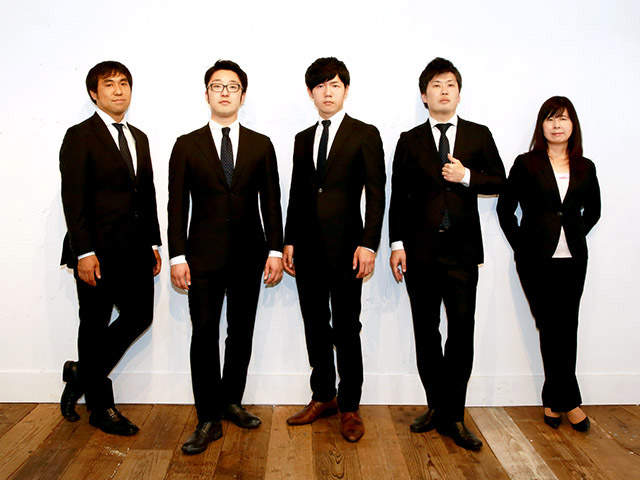
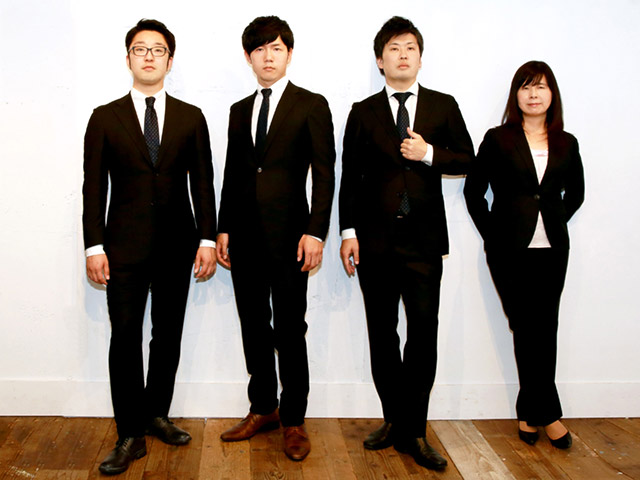
アーティストページGifts写真変更 チケットページイープラスの文言修正

diff --git a/ticket/index.html b/ticket/index.html
@@ -53,12 +53,12 @@
                 <div class="container">
                     <div class="row">
                         <article class="col-md-12 text-left">
-                            <h3>イープラスからのご購入 （※受付終了しました）</h3>
+                            <h3>イープラスからのご購入</h3>
                             <div class="liner color-bg"></div>
-                            <!--<p class="font3 add-top-anEighth">イープラスは国内最大級のチケット予約・購入・販売情報サイトでご購入いただけます。<br>
-                                発売が開始次第、購入URLを掲載致します。</p>
-                            <h4 class="add-top-anEighth"><a href="https://eplus.jp/sf/detail/2840600001-P0030001P021001?P1=1221" target="_blank">ご購入はこちらから</a></h4>
-                            <p class="font3 add-top-anEighth">代金お支払い後、チケットは『宅配便』もしくは『ファミリーマート』『セブンイレブン』で受け取ることが出来ます。</p>-->
+                            <p class="font3 add-top-anEighth">イープラスは国内最大級のチケット予約・購入・販売情報サイトでご購入いただけます。<br>
+                                発売が開始次第、近日中に購入URLを掲載致します。</p>
+                            <!--<h4 class="add-top-anEighth"><a href="https://eplus.jp/sf/detail/2840600001-P0030001P021001?P1=1221" target="_blank">ご購入はこちらから</a></h4>-->
+                            <p class="font3 add-top-anEighth">代金お支払い後、チケットは『宅配便』もしくは『ファミリーマート』『セブンイレブン』で受け取ることが出来ます。</p>
                         </article>
                     </div>
                 </div>
